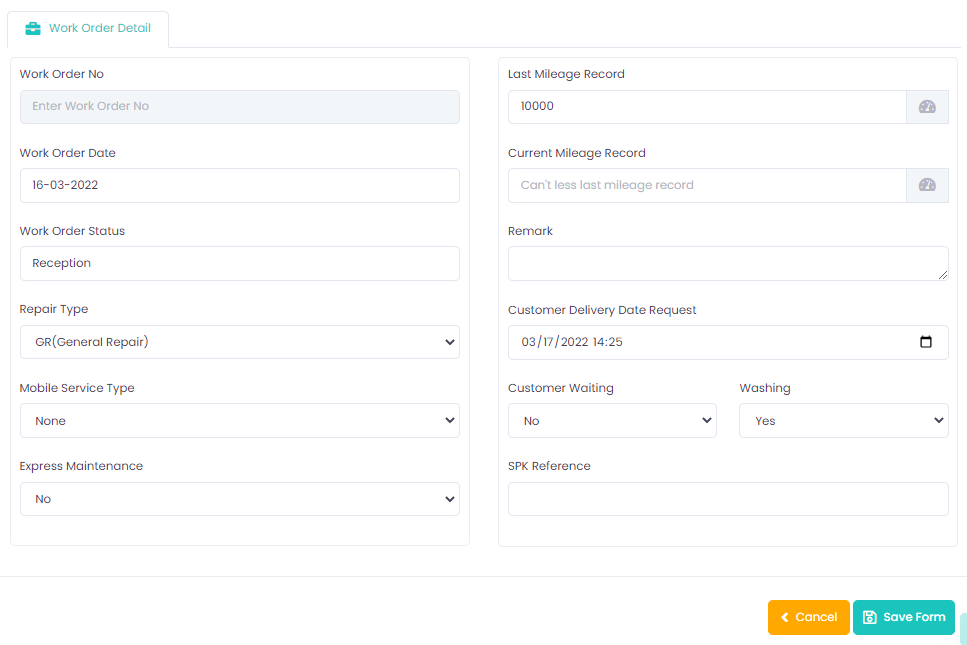
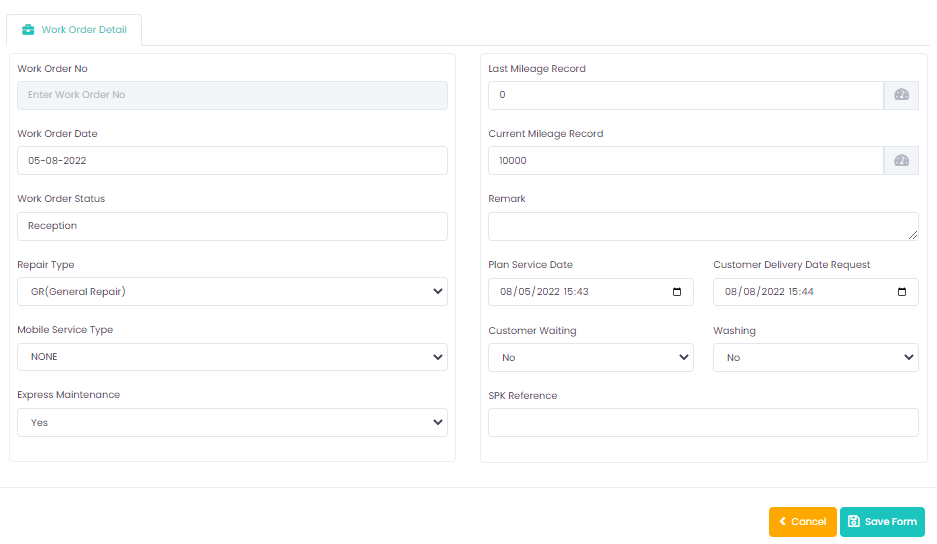
first-commit

diff --git a/docs/general-repair/reception/reception.md b/docs/general-repair/reception/reception.md
@@ -25,7 +25,7 @@ Pencarian unit dilakukan menggunakan beberapa metode antara lain:
 
 ---
 
-### **Kustomer Terdaftar**
+### **Customer registered**
 
 Masukkan nomor plat secara lengkap atau bisa juga dengan memasukkan nomor rangka atau nomor mesin, namun kali ini contoh nya memasukkan nomor plat kendaraan.
 
@@ -38,7 +38,7 @@ Setelah identitas customer muncul klik tombol ![Docusaurus Plushie](/img/general
 untuk melanjutkan ke proses pembuatan **[Create Work Order](#create-work-order)**.
 
 
-### **Kustomer Tidak Terdaftar**
+### **Customer non listed**
 Dengan cara masukkan angka atau huruf secara acak, misalnya xyz,123 atau xy34, minimal 3 karakter.
 
 ![Docusaurus Plushie](/img/general-repair/reception/5.png)
@@ -73,7 +73,7 @@ Keterangan :
 
 Setelah data **Contact Person** terisi, pada bagian kanan atas tampilan klik tombol ![Docusaurus Plushie](/img/general-repair/reception/workorder.png) maka Service Advisor dilanjutkan untuk membuat Work Order
 
-### **Kustomer Dari DMS Desktop**
+### **Customer by legacy**
 
 Masukkan nomor rangka secara lengkap atau bisa juga dengan memasukkan nomor plat atau nomor mesin, namun kali ini contoh nya memasukkan nomor rangka kendaraan, 
 
@@ -93,31 +93,33 @@ setelah data kustomer muncul maka di lanjutkan untuk klik button ![Docusaurus Pl
 
 ## **Create Work Order**
 
+> Pembuatan Work Order merupakan kelanjutan dari proses-proses sebelumnya. Work Order merupakan Detail View yang berbentuk Master-Detail Form yang terdiri atas Work Order data dan beberapa detail seperti pada gambar di atas, Berikut adalah elemen-elemen UI yang penting dalam Work Order Detail View baik itu General Repair maupun Body Painting:
+
 <Tabs>
   <TabItem value="gr" label="General Repair" default>
 
 ![Docusaurus Plushie](/img/general-repair/create-wo/1.png)
 
-> Pembuatan Work Order merupakan kelanjutan dari proses-proses sebelumnya. Work Order merupakan Detail View yang berbentuk Master-Detail Form yang terdiri atas Work Order data dan beberapa detail seperti pada gambar di atas. Berikut adalah elemen-elemen UI yang penting dalam Work Order Detail View:
+![Docusaurus Plushie](/img/general-repair/create-wo/1x.png)
 
 | Nama Kolom | Deskripsi |
 |--------|--------|
 | Work Order No |Nomor yang ter generate otomatis oleh sistem. |
 | Work Order Date |Tanggal dibuat nya work order |
 | Work Order Status | **None** : Status awal WO, **Booking** :WO Booking, **Waiting for reception** : Menunggu penerimaan SA, **Reception**	: Proses Penerimaan, **Waiting for job distribution** : Menunggu distribusi Job, **Waiting for technician**	: Menunggu teknisi, **Production** : Pengerjaan Job oleh teknisi, **Waiting for inspection** : Menunggu Inspeksi, **Inspection** : Inspeksi Job, **Waiting for document checking** : Menunggu pengecekan dokumen, **Document checking**	: Pengecekan dokumen, **Waiting for invoice** : Menunggu pembuatan invoice, **Invoice**	: Pembuatan invoice selesai, **Waiting for payment** : Menunggu pembayaran, **Delivered** : Kendaraan telah diserahkan, **Cancel** : dibatalkan, **Waiting Approval** : menunggu persetujuan atasan |
-| Repair Type | Jenis perbaikan |
+| Repair Type | **GR (General Repair)** = Jenis perbaikan |
 | Mobile Service Type | Diisi khusus jika pelayanan servis mobile seperti TMC dan DMC |
 | Express Maintenance | Pilih **Yes** jika Express maintenance, jika tidak pilih **No** |
 | Last Mileage Record | Angka kilometer terisi jika unit pernah datang servis sebelumnya |
 | Current Mileage record | Angka kilometer saat datang servis.  |
+| Plan Service Date | Tanggal dan jam rencana servis selanjutnya |
 | Customer Delivery Date Request | Tanggal dan jam penyerahan ke kustomer. |
 | Customer Waiting | Pilih **Yes** jika customer menunggu, jika tidak pilih **No** |
 | Washing	| Pilih **Yes** jika unit kendaraan ingin di cuci, jika tidak pilih **No** |
 | SPK Reference | Masukkan **nomor SPK** Pembelian jika diperlukan (tidak Wajib) |
+| Stall | Nama stall tempat unit di kerjakan |
 | Remark | Catatan jika diperlukan (tidak wajib) |
 
-Service Advisor dapat meng-input jenis pekerjaan/Job yang akan dilakukan pada tab **Job Order**, bergantung kepada tujuan kedatangan Customer. Selain itu, Service Advisor juga dapat memasukkan keluhan-keluhan yang dialami oleh Customer melalui tab **Customer Request**. Part-part yang dibutuhkan dalam proses service dapat di-input pada tab **Part Order** dan juga **WAC** proses pengecekan kondisi kustomer sebelum di lakukan perbaikan.
-  
   </TabItem>
   <TabItem value="bp" label="Body Painting">
 
@@ -125,18 +127,17 @@ Service Advisor dapat meng-input jenis pekerjaan/Job yang akan dilakukan pada ta
 
 ![Docusaurus Plushie](/img/body-painting/create-wo/1.1.png)
 
-> Pembuatan Work Order merupakan kelanjutan dari proses-proses sebelumnya. Work Order merupakan Detail View yang berbentuk Master-Detail Form yang terdiri atas Work Order data dan beberapa detail seperti pada gambar di atas, hanya saja untuk work order yang satu ini khusus untuk jenis layanan body painting. Berikut adalah elemen-elemen UI yang penting dalam Work Order Detail View:
-
 | Nama Kolom | Deskripsi |
 |--------|--------|
 | Work Order No |Nomor yang ter generate otomatis oleh sistem. |
 | Work Order Date |Tanggal dibuat nya work order |
 | Work Order Status | **Waiting for reception** : Menunggu penerimaan SA, **Reception**	: Proses Penerimaan, **Waiting for job distribution** : Menunggu distribusi Job, **Waiting for technician**	: Menunggu teknisi, **Production** : Pengerjaan Job oleh teknisi, **Waiting for inspection** : Menunggu Inspeksi, **Inspection** : Inspeksi Job, **Waiting for document checking** : Menunggu pengecekan dokumen, **Document checking**	: Pengecekan dokumen, **Waiting for invoice** : Menunggu pembuatan invoice, **Invoice**	: Pembuatan invoice selesai, **Waiting for payment** : Menunggu pembayaran, **Delivered** : Kendaraan telah diserahkan, **Cancel** : dibatalkan, **Waiting Approval** : menunggu persetujuan atasan |
-| Repair Type | Jenis perbaikan |
+| Repair Type | **BP (Body Paint)** = Jenis perbaikan |
 | Mobile Service Type | Diisi khusus jika pelayanan servis mobile seperti TMC dan DMC |
 | Express Maintenance | Pilih **Yes** jika Express maintenance, jika tidak pilih **No** |
 | Last Mileage Record | Angka kilometer terisi jika unit pernah datang servis sebelumnya |
 | Current Mileage record | Angka kilometer saat datang servis.  |
+| Plan Service Date | Tanggal dan jam rencana servis selanjutnya |
 | Customer Delivery Date Request | Tanggal dan jam penyerahan ke kustomer. |
 | Customer Waiting | Pilih **Yes** jika customer menunggu, jika tidak pilih **No** |
 | Washing	| Pilih **Yes** jika unit kendaraan ingin di cuci, jika tidak pilih **No** |
@@ -147,6 +148,8 @@ Service Advisor dapat meng-input jenis pekerjaan/Job yang akan dilakukan pada ta
   </TabItem>
 </Tabs>
 
+Service Advisor dapat meng-input jenis pekerjaan/Job yang akan dilakukan pada tab **Job Order**, bergantung kepada tujuan kedatangan Customer. Selain itu, Service Advisor juga dapat memasukkan keluhan-keluhan yang dialami oleh Customer melalui tab **Customer Request**. Part-part yang dibutuhkan dalam proses service dapat di-input pada tab **Part Order** dan juga **WAC** proses pengecekan kondisi kustomer sebelum di lakukan perbaikan.
+  
 ---
 
 ## **Create Estimation**
@@ -219,10 +222,10 @@ setelah itu silahkan isi pada bagian tab **[Customer Request](#customer-request)
 ---
 ## **Create Diagnostic**
 
+![Docusaurus Plushie](/img/general-repair/reception/16.png)
+
 <Tabs>
   <TabItem value="gr" label="General Repair" default>
-
-![Docusaurus Plushie](/img/general-repair/reception/16.png)
 
 ![Docusaurus Plushie](/img/general-repair/reception/14.png)
 
@@ -259,12 +262,12 @@ maka akan muncul form seperti dibawah ini.
 
 ## **Create Purchase Part**
 
+> Jika ada Customer yang datang kepada Service Advisor hanya untuk membeli part saja tanpa melakukan servis pada unit kendaraanya, petugas Service Advisor dapat membuat Work Order Purchase Part yang difungsikan untuk pembelian part tanpa adanya Job pada Work Order tersebut.
+
 <Tabs>
   <TabItem value="gr" label="General Repair" default>
 
 ![Docusaurus Plushie](/img/purchase-part/create-wo/1.png)
-
-> Jika ada Customer yang datang kepada Service Advisor hanya untuk membeli part saja tanpa melakukan servis pada unit kendaraanya, petugas Service Advisor dapat membuat Work Order Purchase Part yang difungsikan untuk pembelian part tanpa adanya Job pada Work Order tersebut.
 
 | Nama Kolom | Deskripsi |
 |--------|--------|
@@ -412,6 +415,11 @@ Keterangan :
 *Not Available*
   
   </TabItem>
+  <TabItem value="prt" label="Purchase Part">
+
+*Not Available*
+  
+  </TabItem>
 </Tabs>
 
 ---
@@ -421,7 +429,7 @@ Keterangan :
 <Tabs>
   <TabItem value="gr" label="General Repair" default>
 
-> Service Advisor dapat mencetak Work Order dengan cara menekan tombol ![Docusaurus Plushie](/img/general-repair/print-wo/printwo.png)pada bagian bawah tampilan seperti pada gambar dibawah ini.
+> Service Advisor dapat mencetak Work Order dengan cara menekan tombol ![Docusaurus Plushie](/img/body-painting/print-wo/printwo.png)pada bagian bawah tampilan seperti pada gambar dibawah ini.
 
 ![Docusaurus Plushie](/img/general-repair/print-wo/1.png)
 
@@ -439,19 +447,11 @@ Keterangan :
   </TabItem>
 </Tabs>
 
-<!---
+---
 
 ## **Add Program/Insurance**
 
-> Berikut ini adalah langkah-langkah cara menambahkan program atau insurance baik itu di job maupun part.
-
-![Docusaurus Plushie](/img/general-repair/doc-checking/5.png)
-
-Untuk memulai proses penambahan program atau insurance, klik ![Docusaurus Plushie](/img/general-repair/doc-checking/tigatitik.png) lalu akan muncul tampilan seperti dibawah ini.
-
-![Docusaurus Plushie](/img/general-repair/doc-checking/7.png)
-
-klik button ![Docusaurus Plushie](/img/general-repair/doc-checking/tigatitik.png), maka akan muncul form job seperti dibawah ini.
+> Berikut ini adalah cara menambahkan program atau insurance baik itu di job maupun part.
 
 ![Docusaurus Plushie](/img/general-repair/doc-checking/8.png)
 
@@ -461,6 +461,8 @@ klik button ![Docusaurus Plushie](/img/general-repair/doc-checking/tigatitik.png
 2. **Pilih Program** : Masukkan nama pihak ke-3 penyedia program.
 
 Pilih salah satu penyedia potongan harga, lalu klik button ![Docusaurus Plushie](/img/general-repair/doc-checking/save.png) pada bagian kanan bawah form.
+
+---
 
 ## **Request Discount**
 
@@ -475,14 +477,6 @@ proses ini membutuhkan approval :
 :::
 
 > Berikut adalah cara memasukkan diskon baik itu di job maupun part
-
-![Docusaurus Plushie](/img/general-repair/doc-checking/5.png)
-
-Untuk memulai proses penambahan diskon, klik ![Docusaurus Plushie](/img/general-repair/doc-checking/tigatitik.png) lalu akan muncul tampilan seperti dibawah ini.
-
-![Docusaurus Plushie](/img/general-repair/doc-checking/9.png)
-
-klik button ![Docusaurus Plushie](/img/general-repair/doc-checking/tigatitik.png), maka akan muncul form job seperti dibawah ini.
 
 ![Docusaurus Plushie](/img/general-repair/doc-checking/10.png)
 
@@ -502,7 +496,7 @@ deskripsikan alasan nya permintaan diskon tersebut, setelah itu klik button ![Do
 
 maka proses pengajuan selesai tinggal menunggu approval dari atasan.
 
--->
+---
 
 ## **Cancel Work Order**
 

diff --git a/docs/mraog.md b/docs/mraog.md
@@ -149,7 +149,7 @@ klik pada bagian kanan atas untuk mendownload laporan reminder klik button ![Doc
 
 ### **Reschedule**
 
-> Menu ini digunakan pada saat customer yang telah booking batal datang servis pada tanggal yang telah di tetapkan oleh MRA, cara nya ialah klik menu **Appointment - Booking List**
+> Menu ini digunakan pada saat customer yang telah booking batal datang servis dan ingin mengubah jadwal booking di hari lain, cara nya ialah klik menu **Appointment - Booking List**
 
 ![Docusaurus Plushie](/img/mra-og/reschedule/1.png)
 
@@ -183,3 +183,36 @@ maka akan muncul form seperti dibawah ini, pada inputan **Reschedule Booking To*
 maka akan muncul pesan *SUCCESS* seperti dibawah ini.
 
 ![Docusaurus Plushie](/img/mra-og/reschedule/7.png)
+
+### **Cancel Booking**
+
+> Menu cancel booking digunakan pada saat customer yang telah booking batal datang servis dengan alasan tertentu pada tanggal yang telah di tetapkan oleh MRA, cara nya ialah klik menu **Appointment - Booking List**
+
+![Docusaurus Plushie](/img/mra-og/cancel-booking/1.png)
+
+maka akan muncul tampilan seperti dibawah ini, pada bagian kanan tampilan klik button seperti pada gambar di bawah ini.
+
+![Docusaurus Plushie](/img/mra-og/cancel-booking/2.png)
+
+maka pilihan yang muncul ialah sebagai berikut :
+
+- **Today** = Customer booking yang dijadwalkan masuk hari ini.
+- **H+1** = Customer booking lewat 1 hari dari jadwal.
+- **H+2** = Customer booking lewat 2 hari dari jadwal.
+- **H+3** = Customer booking lewat 3 hari dari jadwal.
+- **Late** = Customer booking lewat 4-5 hari atau seterusnya dari jadwal.
+- **All** = Menampilkan semua data customer booking.
+
+![Docusaurus Plushie](/img/mra-og/cancel-booking/3.png)
+
+sebagai contoh penulis memilih **Late** maka data yang akan muncul seperti di bawah ini.
+
+![Docusaurus Plushie](/img/mra-og/cancel-booking/4.png)
+
+pada bagian kiri ujung list view klik button ![Docusaurus Plushie](/img/mra-og/cancel-booking/tigatitik.png) lalu klik button ![Docusaurus Plushie](/img/mra-og/cancel-booking/cancel.png)
+
+![Docusaurus Plushie](/img/mra-og/cancel-booking/5.png)
+
+maka akan muncul form seperti dibawah ini, pada inputan **Reason Cancel** masukkan alasan kustomer batal booking lalu klik button ![Docusaurus Plushie](/img/mra-og/cancel-booking/save.png)
+
+![Docusaurus Plushie](/img/mra-og/cancel-booking/6.png)
